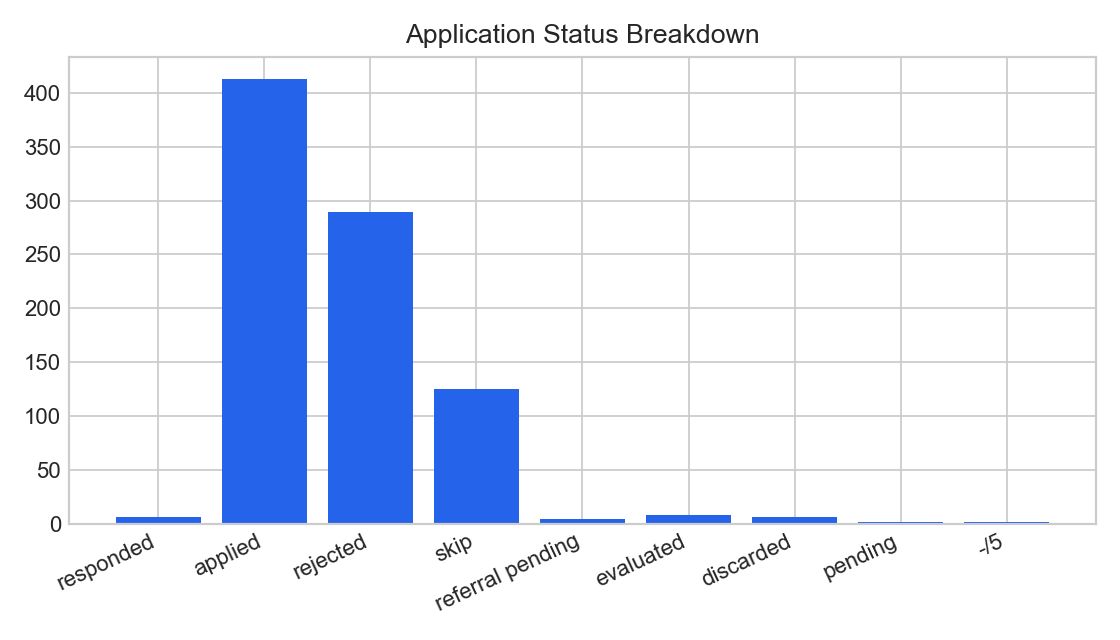
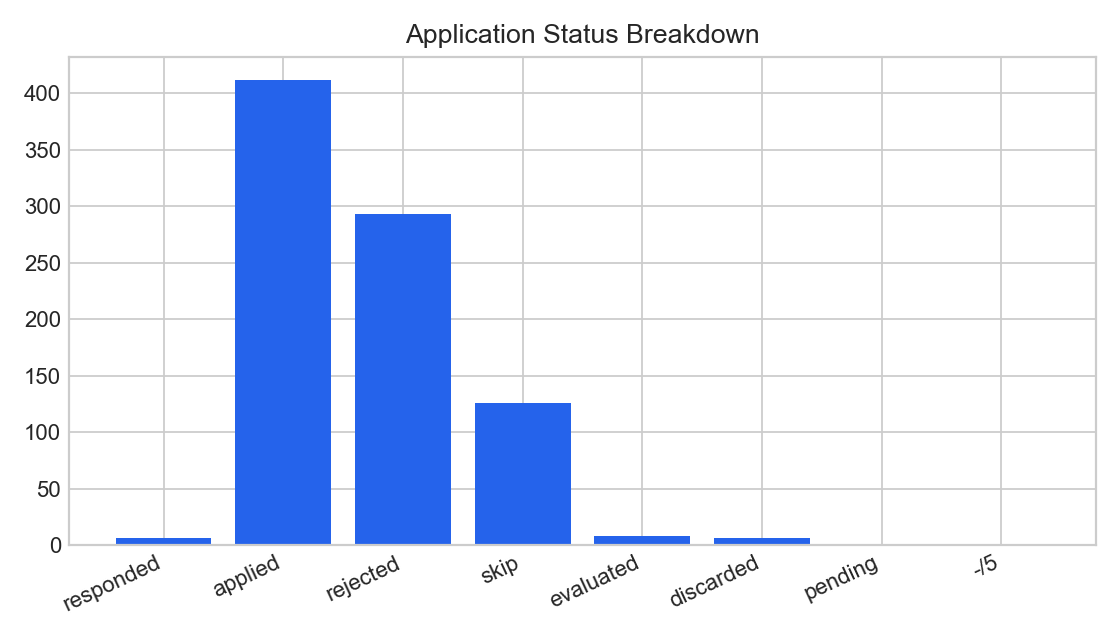
Refresh analytics: Tesla referral roles closed as rejected; HappyRobot removed

diff --git a/data/daily_summary.md b/data/daily_summary.md
@@ -1,6 +1,6 @@
 # Daily Job Search Summary
 
-_Last refreshed: 2026-10-20T16:17:01-07:00_
+_Last refreshed: 2026-10-20T16:20:34-07:00_
 
 ## Positioning
 
@@ -11,7 +11,7 @@ _Last refreshed: 2026-10-20T16:17:01-07:00_
 ## Snapshot
 
 - Tracked roles: 1004
-- Active roles: 427
+- Active roles: 426
 - Response rate: 0.8%
 - LinkedIn outreach sent: 28
 - Pending pipeline items: 155
@@ -21,23 +21,22 @@ _Last refreshed: 2026-10-20T16:17:01-07:00_
 ## Status Breakdown
 
 - -/5: 1
-- applied: 413
+- applied: 412
 - discarded: 6
 - evaluated: 8
 - pending: 1
-- referral pending: 4
-- rejected: 289
+- rejected: 293
 - responded: 6
-- skip: 125
+- skip: 126
 
 ## Recent Activity
 
-- 2026-10-20: HappyRobot | Product Engineer Intern | applied
 - 2026-10-20: Fulcrum | Generalist | applied
 - 2026-10-20: Clipboard | Revenue Strategy & Growth Associate | applied
 - 2026-10-20: Figma | Early Career, Associate Product Manager (2027) | applied
 - 2026-10-20: Clipboard Health | Revenue Strategy & Growth Associate | applied
 - 2026-10-20: Fulcrum Research | Generalist (Strategic Ops & Product) | applied
+- 2026-10-20: HappyRobot | Product Engineer Intern | skip
 - 2026-10-19: Spectral Labs | Engineer, New Grad | applied
 - 2026-10-19: Mercor | Delivery Engineer, Frontier Data Products | applied
 - 2026-10-19: Mercor | Strategic Project Associate | rejected
